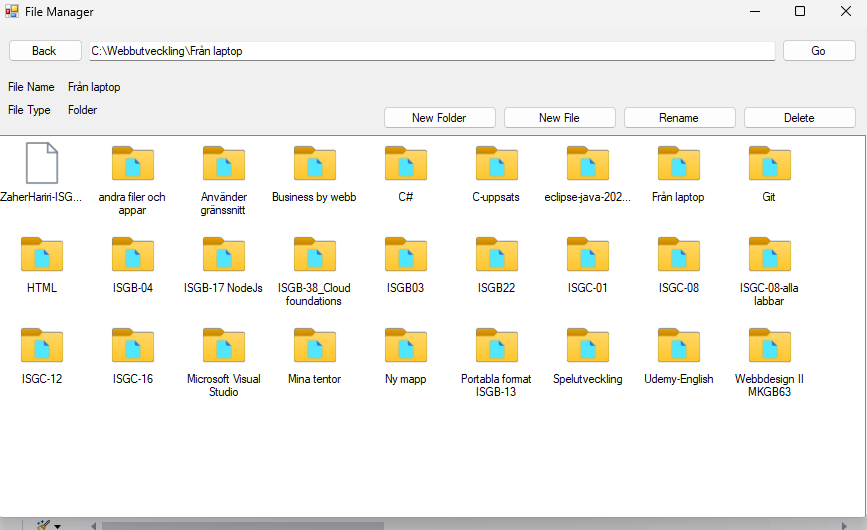
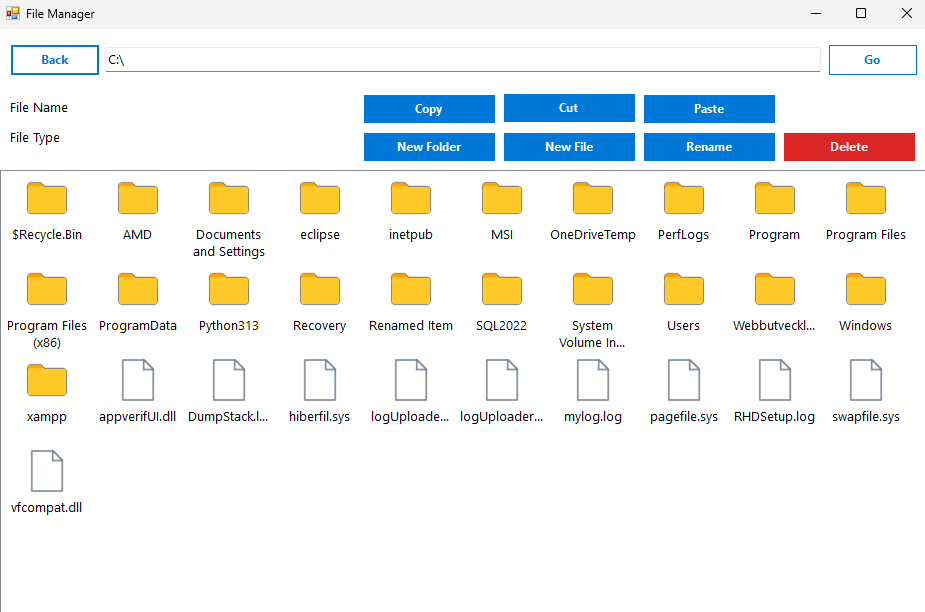
Add code link to file manager project.

diff --git a/src/components/Projects.jsx b/src/components/Projects.jsx
@@ -1,7 +1,7 @@
 import Slider from "react-slick";
 import "slick-carousel/slick/slick.css";
 import "slick-carousel/slick/slick-theme.css";
-import image1 from "../assets/FileManager_2.png";
+import image1 from "../assets/FileManager_animation.gif";
 import image2 from "../assets/ManagerSystem_1.png";
 import image3 from "../assets/quiz-1.png";
 import image4 from "../assets/Movieflix_1.png";
@@ -36,9 +36,9 @@ export default function Projects() {
     return () => window.removeEventListener("resize", updateSlidesToShow);
   }, []);
 
-  {
-    /* Slider settings  */
-  }
+  
+    //Slider settings
+  
   const settings = {
     dots: true,
     infinite: true,
@@ -59,8 +59,8 @@ export default function Projects() {
       image: image1,
       title: t("projects.projectOne.title"),
       description: t("projects.projectOne.description"),
-      tech: ["C#", "Windows Forms"],
-      github: null,
+      tech: ["C#", ".NET", "Windows Forms"],
+      github: "https://github.com/MZAHER1988/FileManager",
     },
     {
       id: 2,
@@ -115,6 +115,7 @@ export default function Projects() {
                   src={project.image}
                   alt={project.title}
                   className="w-full h-40 sm:h-48 md:h-52 lg:h-56 object-cover object-center"
+                  loading="lazy"
                 />
                 <div className="p-6">
                   <h3 className="tracking-widest text-xl title-font font-medium text-yellow-400 mb-1">